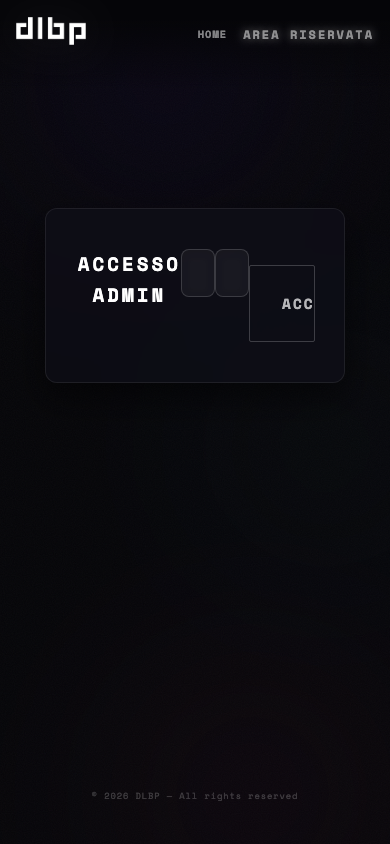
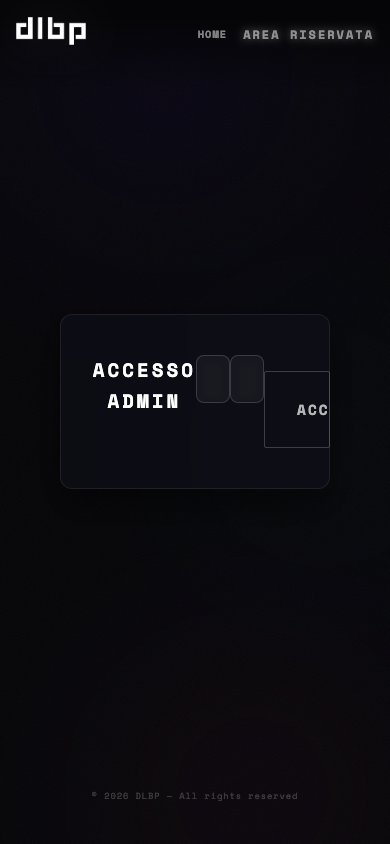
Fix(Layout): Add padding-top: 130px to body to eliminate fixed navigation header overlap on mobile and desktop viewports

diff --git a/css/styles.css b/css/styles.css
@@ -47,7 +47,8 @@ body {
     display: flex;
     flex-direction: column;
     align-items: center;
-    justify-content: center;
+    justify-content: flex-start;
+    padding-top: 130px;
     position: relative;
 }
 
@@ -1004,8 +1005,8 @@ input::placeholder {
 /* Unified Login Card (Admin, PR, Scanner) */
 .login-card, #login-section {
     max-width: 420px;
-    width: 100%;
-    margin: 3rem auto;
+    width: 90%;
+    margin: 1.5rem auto 3rem auto;
     padding: 2.5rem 2rem;
     background: var(--glass-bg);
     border: 1px solid var(--glass-border);
